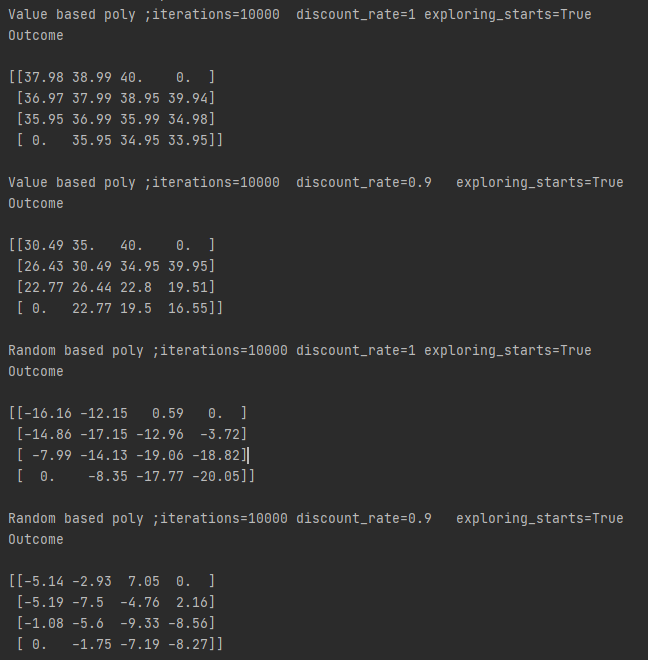
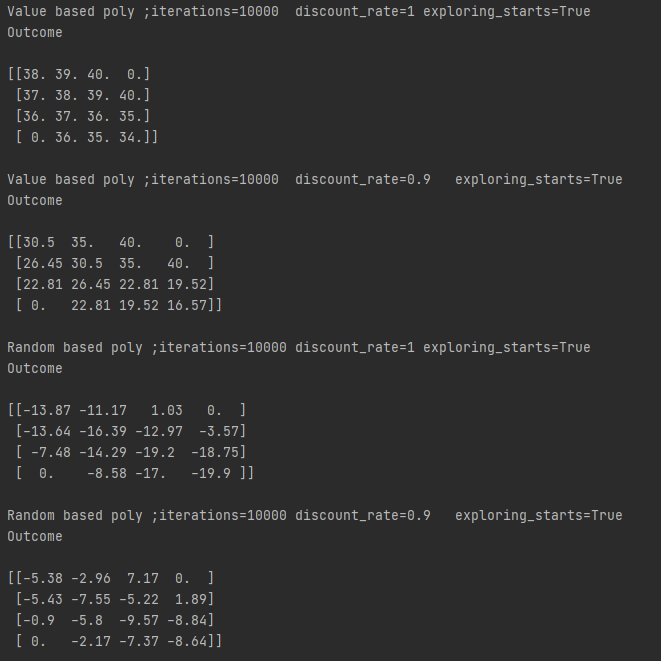
Fixed first index counting as zero for avr calculation in fvmc

diff --git a/modelfree_prediction/code_for_implementation/first_visit_mc_evaluation.py b/modelfree_prediction/code_for_implementation/first_visit_mc_evaluation.py
@@ -39,7 +39,7 @@ def first_visit_mc(environment, iterations=10000, discount_rate=0.9, exploring_s
         for index_x, _ in enumerate(x):
             # all_action = [Action.UP, Action.RIGHT, Action.DOWN, Action.LEFT]
             state = (index_y, index_x)
-            dict_of_states[state] = {"action_value": [0, 0, 0, 0], "rewards": [0], "average": 0}
+            dict_of_states[state] = {"action_value": [0, 0, 0, 0], "rewards": [], "average": 0}
 
     # Loop forever (for each episode):
     #     Generate an episode following π: S0,A0,R1, S1,A1,R2, . . . , ST−1,AT−1,RT
